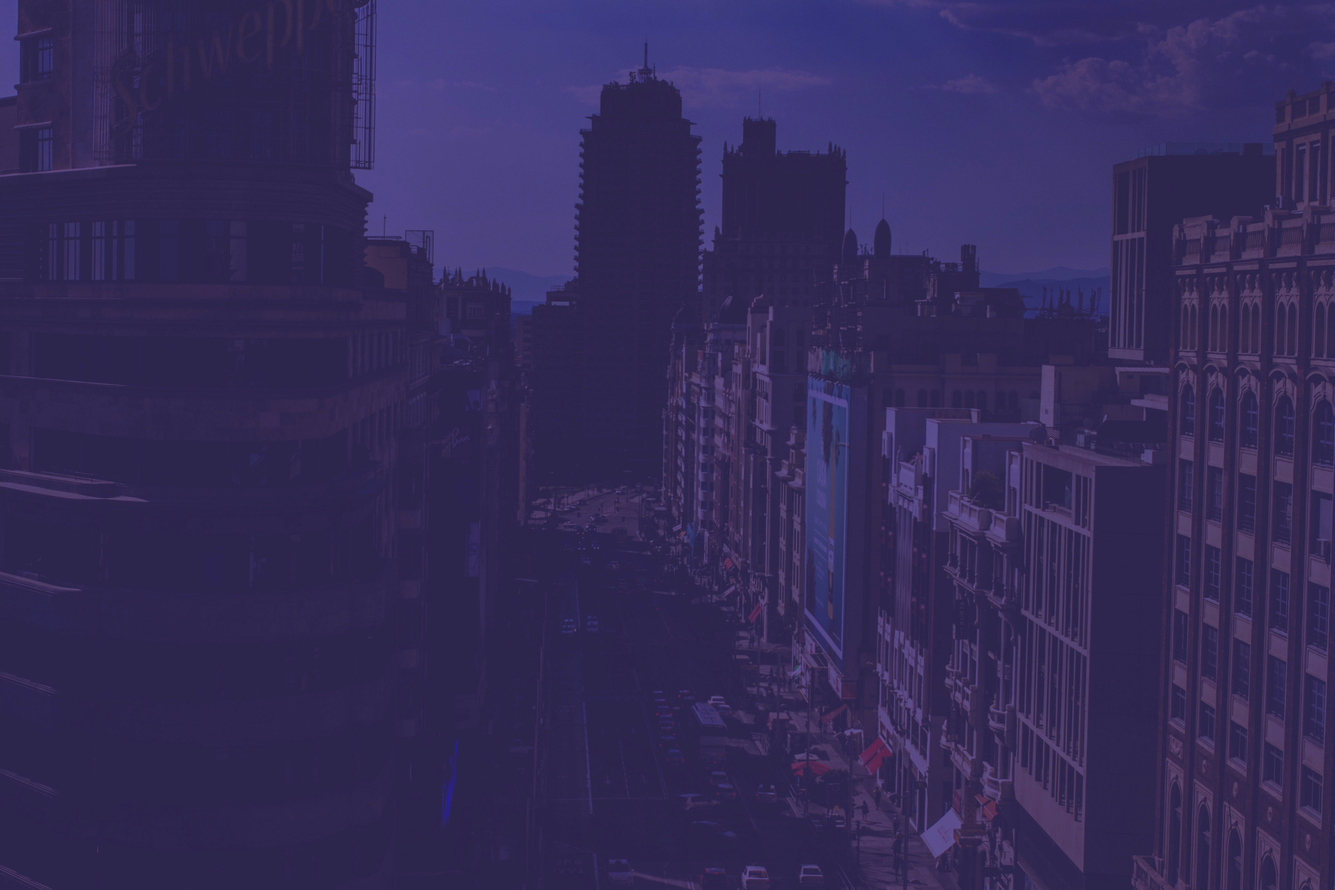
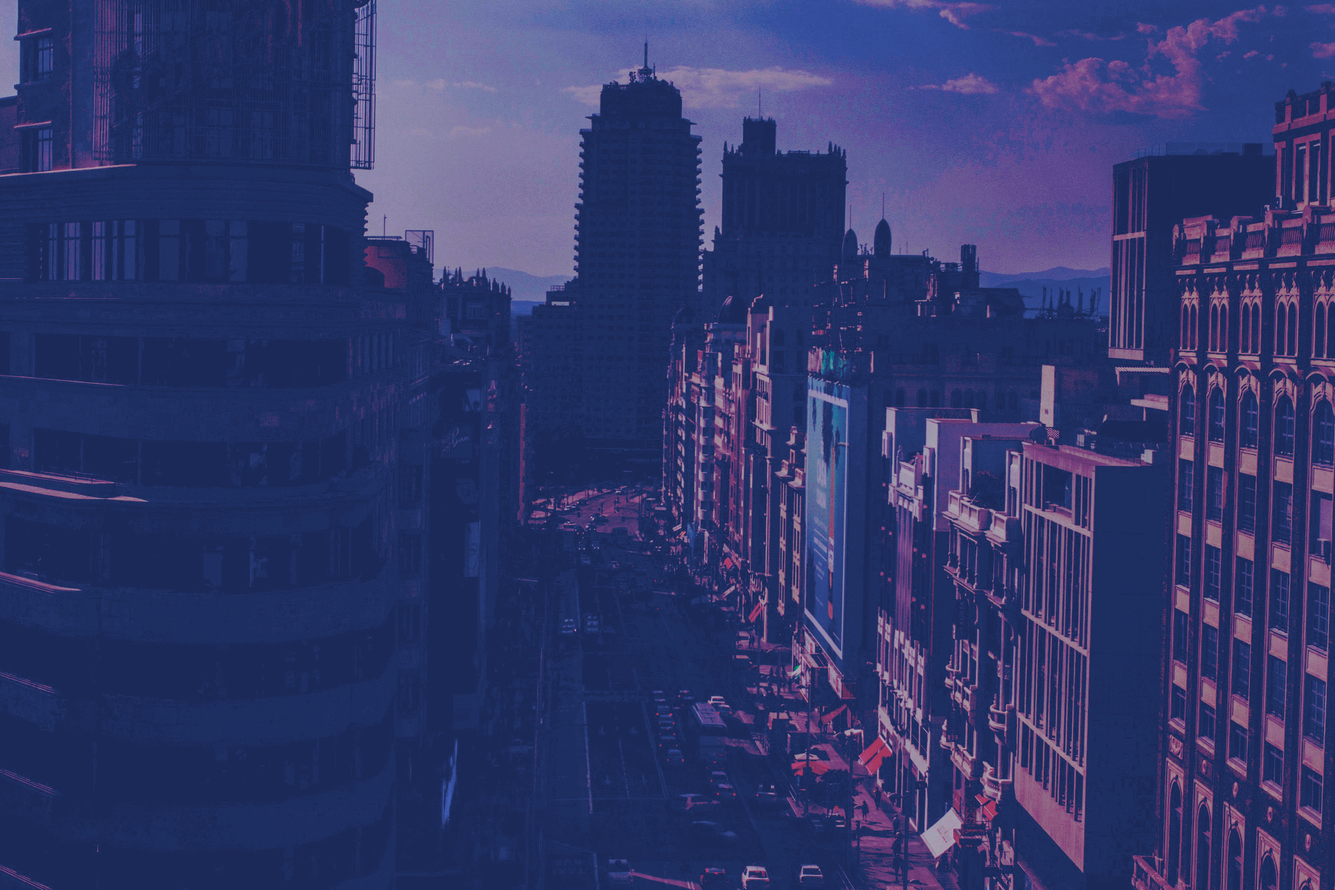
brighter home image and remove faq unused questions

diff --git a/src/elements/hero-block.html b/src/elements/hero-block.html
@@ -23,7 +23,7 @@
       }
 
       .hero-overlay {
-        background-color: rgba(0, 0, 0, 0.6);
+        background-color: rgba(0, 0, 0, 0.5);
         opacity: 0;
         transition: opacity 0.3s;
         position: absolute;

diff --git a/data/faq.md b/data/faq.md
@@ -12,116 +12,10 @@ To stay up to date on the latest information on sessions, speakers, and activiti
 
 During two conference days attendees will be able to attend sessions and hands-on workshops, chat with experts and attendees at coffee breaks and after party, and more.
 
-<!-- ### Livestream & Recordings
-
-If you’re unable to attend NgSpain in-person, you can still be part of the magic. All the lectures from the sessions will be available for free on NgpSain [youtube channel](https://www.youtube.com/channel/UC5nknQj-2llSNd-jqXr4d_w) few weeks after the conference. Workshops won’t be recorded. Also, there could be a livestream provided by participants which you can find via #ngSpain and #ngSpain19 hashtags. -->
-
-  
-<!-- ## Registration -->
-
-
-<!-- ### Drawing Dates
-
-The window to buy a ticket will be opened until 6PM GMT+2 on October 11th 2018, or earlier if the tickets are sold out. If the ticket was bought after September 30th registered participants won’t get printed badge (their names will be written on the badge by marker). To buy a ticket [follow the link]( https://2event.com/events/1027108), select required ticket type, fill in the required information and pay for it.
-
-Once you've successfully payed for the ticket you’ll reach a confirmation screen and receive an email with the ticket. Please don’t forget to download it on your device or print it, as it’s required for entrance.
-
-  
-
-### Ticket Types
-
-#### **Pre-Early birds tickets**
-
-General Admission: $50
-
-Conditions: Feb 7 - Mar 7 or first 50 tickets
-
-#### **Early birds tickets**
-
-General Admission: $70
-
-Conditions: Mar 7 - Jun 30 or first 200 tickets
-
-#### **Lazy birds tickets**
-
-General Admission: $90
-
-Conditions: Jul 1 - Sep 30 or until tickets will be sold out
-
-#### **EDU (Students/lecturers) Tickets**
-
-We offer a limited number of tickets at a discounted rate of $30 for full-time students and lecturers. To qualify, you need to be a student or a professor, faculty or staff at a higher education institution. Be aware that PhD students are not in the list. Once purchased, general admission tickets can't be converted to EDU tickets, and vice versa.
-
-When you check in at the conference, you'll need to provide a current student ID (active during the conference dates), transcript, credential, or other form of documentation which demonstrates that you’re qualified to receive this special rate. If you buy an academic ticket and can't provide academic documentation when you arrive at DevFest, you won't be admitted or offered a refund, nor will you be able to convert your ticket to general admission.
-
-#### **Press Tickets**
-
-We’ll be offering a limited number of press passes to qualified members of the media. To submit a request, please fill out this [FORM]( https://goo.gl/forms/SmKHuksRw8sb0eoB2). If you have additional questions, please email [devfest@gdg.org.ua](mailto:devfest@gdg.org.ua) for more information. Please note that we’ll have a limited number of press passes available and will be vetting requests. Filling out the form doesn’t guarantee you a press pass. Our team will contact you if we’re able to accommodate your request.
-
-#### **I Love DFUA**
-
-General admission: $150
-
-Special tickets for real supporters of our conference. As we’re organizing the event on non-profit basis, additional resources will help us bring more cool speakers from all over the world and additionally invest into demo-zone, party, and other activities. Owners of “I love DFUA” tickets will get additional valuable benefits from our team.
-
-  
-
-### Registration Terms & Conditions
-
-- Tickets for GDG DevFest Ukraine are for the full two-day conference and no single-day tickets are available. 
-- You may buy a ticket on behalf of the other person (for example, make a gift). Just mention during purchase the name, company and title of the person who will attend the event. 
-- GDG DevFest Ukraine tickets must be used by the original registrant and are non-transferable. 
-- By registering and accepting any discounts, gifts, or items of value related to GDG DevFest Ukraine, you certify that you are able to do so in compliance with applicable laws and the internal rules of your organization. 
-- At check-in, we’ll check your ticket prior to assigning you your GDG DevFest Ukraine badge. If you don’t have proper identification, you won’t be able to receive a badge and won’t be admitted to the conference. 
-- If you buy an EDU ticket and can't provide academic documentation during check-in at GDG DevFest Ukraine, you won't be admitted or offered a refund, nor will you be able to convert your ticket to general admission. Please be sure to bring a current student ID or other proof that you are qualified to receive this special rate when you check in at the conference. 
-- Ticket purchases can be refunded before October 4th, 2018 via your profile at the [ticket service website]( https://2event.com/events/1027108). 
-- After October 4th, 2018, all ticket sales are final. There will be no refunds or exchanges regardless of weather conditions, session availability, or any other circumstance. 
-- Attendees aren’t permitted to bring guests to GDG DevFest Ukraine or to the after hours party. If you have someone traveling with you, they’ll need to register themselves and purchase an attendee ticket. 
-- Photographs and/or video taken at GDG DevFest Ukraine by GDG Lviv, or others on behalf of the conference organizers, may include your image or likeness. You agree that GDG Lviv may use such photographs and/or video for any purpose without any compensation to you. 
-- All information entered into the registration form must be correct and accurate to the best of your knowledge. All information expected to be entered in English. Some of the information entered (such as name, company and title), will be displayed on the attendee badge. 
-- By registering for a ticket you acknowledge that your information will be used in accordance with [Tickets provider Terms of Service](https://2event.com/en/agreement). 
-- All registered attendees agree to allow GDG Lviv to contact them regarding their registration and attendance at the event. By registering for a ticket, you agree to allow GDG Lviv to communicate with you via email with information regarding the event. 
-- You agree to be solely responsible for your own safety, belongings and well-being while participating in GDG DevFest Ukraine. Organizers won't be liable for your participation in GDG DevFest Ukraine. 
-- Applicants and attendees can request the deletion of their registration data after the event ends by emailing [devfest@gdg.org.ua](mailto:devfest@gdg.org.ua). 
-  
-
-### More Registration Details
-
-- Please make sure to register using the name that matches the government-issued photo ID you’ll be presenting when you check in to the festival. 
-- Registration for GDG DevFest Ukraine includes two full days of sessions, product demos, admission to the after hours party, and attendance at the keynotes. We also provide complimentary snacks each day. In addition, attendees receive a conference badge and may be offered additional gifts.  
-- If you aren’t a resident of Ukraine, you should check with your local government to determine the required documents and arrangements needed for your travel to Ukraine. If you require a visa letter regarding your GDG DevFest Ukraine attendance please indicate so when completing the registration form and we’ll email it to you within 7 business days. If you haven’t received your letter or have questions regarding the process, you can contact [devfest@gdg.org.ua](mailto:devfest@gdg.org.ua). GDG Lviv won’t be able to contact an embassy on your behalf. 
-  
-
-## Attendance Details
-
-### Language
-
-All presentations at GDG DevFest Ukraine will be in English.
-
-### Pro Tips
-
-If you’re joining us in-person at Planeta Kino, here are some useful tips to navigate your way through the conference:
-
-- Lost & Found: Will be located at the Conference Info Desk (Registration point) during event hours. Any items left overnight will be turned over to the Conference Security Office. 
-- Lunch: Attendees are invited to have a lunch at one of the many restaurants at King Cross shopping mall. 
-- After Hours: Day 1 afterparty you don’t want to miss! Attendees are invited to enjoy food, drinks, music, games, and more during the evening of October 12th (location will be published). Your attendee badge is required for entrance. 
-  
-
-### Badges & Badge Pick-up
-
-To expedite the check-in process, we’ll begin badge pick-up on Thursday, October 11, (location will be published). Make sure to bring your ticket along with student/lecturer ID (for EDU tickets), as we’ll need to verify it prior to assigning you your GDG DevFest Ukraine badge. If you don’t have proper identification, you won’t be able to receive a badge and won’t be admitted to the conference.
-
-Everyone is guaranteed a seat for the keynotes but the best seats will be assigned on a first-come, first-served basis during badge pick-up beginning at 9AM on October 12th. So make sure to come in on time!
-
-Please note, you may not share, give, or otherwise provide your badge to anyone. GDG DevFest Ukraine badges aren’t replaceable, so don't lose yours or you won’t be readmitted to the conference. You must wear your GDG DevFest Ukraine badge to gain admission to the conference, including the sessions, workshops, and afterparty. If requested by security, please display or provide additional identification. GDG DevFest Ukraine badges may include your name, company or work title (if provided). -->
-
-  
-
 ### Afterparty
 
 All registered attendees are invited to the afterparty on the evenings of October 19th. The conference badges will be required for entry. Please join us for food, drinks, music, games, and more. Alcoholic beverages will be available for those 18 and over.
 
-  
 
 ### Event Attire
 
